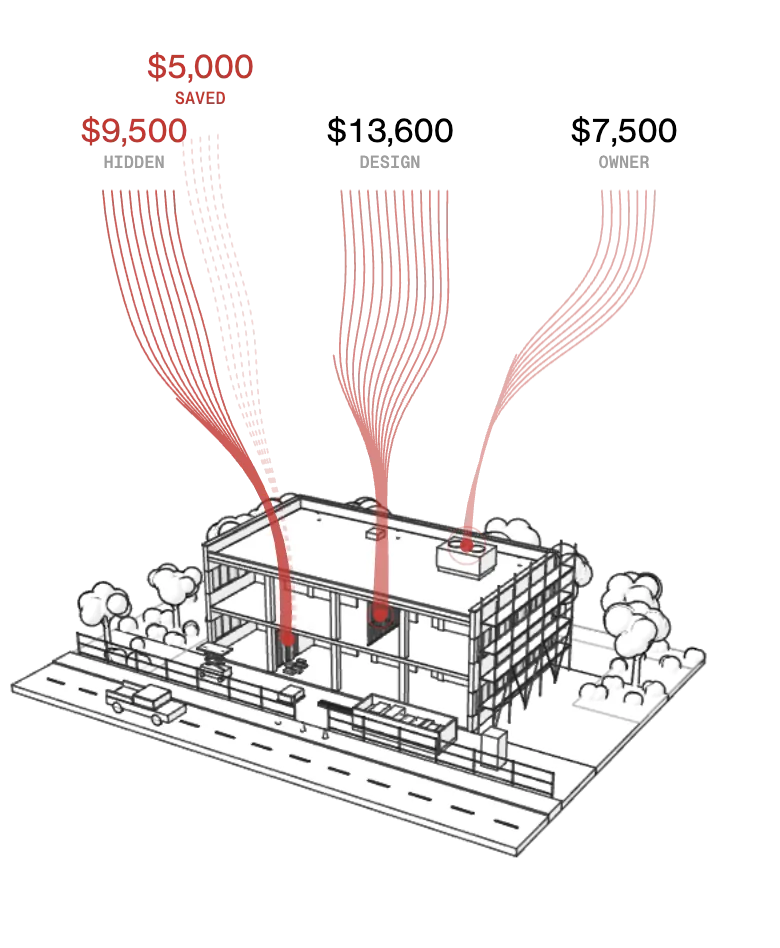
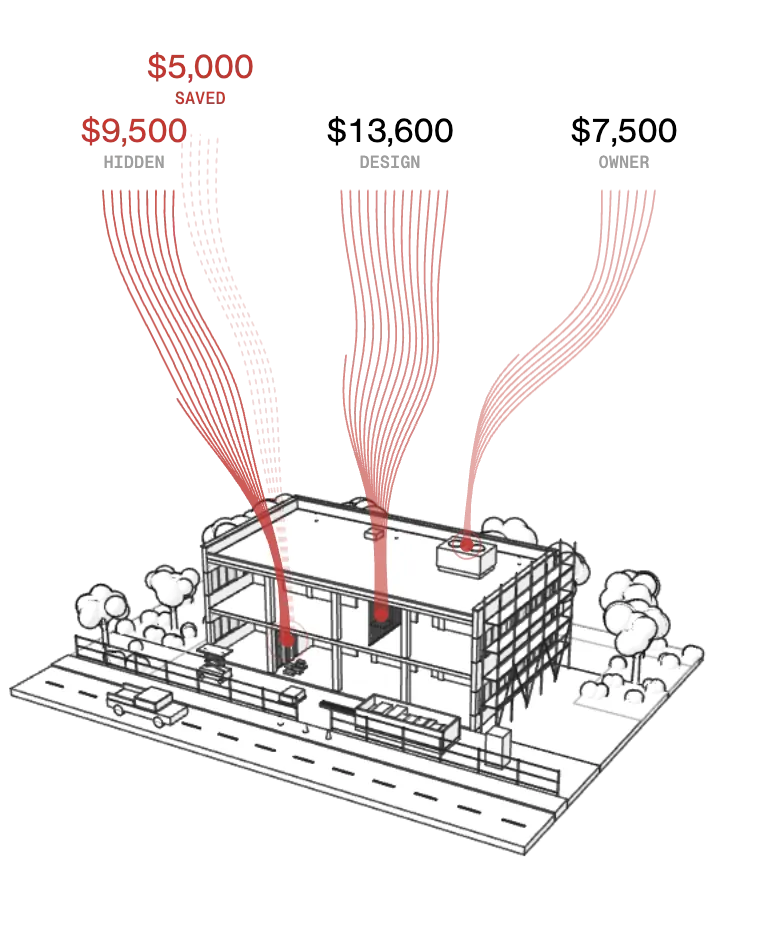
Make the fallback take the models apart gradually
The stills fallback swapped from an assembled to a taken-apart image halfway through the scroll, so
the wall and the scanner seemed to jump apart. Each is now 12 frames from assembled to taken apart,
captured in the page's ?capture mode with the explode amount and camera set exactly (turning onto
the diagonal the live view settles on). Scroll eases through them with the live view's own range
and easing, each frame fading in over the one before.

Checked in Safari 26.3.1 (where WebGL fails): the wall and scanner come apart step by step with
scroll. Chromium still draws the live 3D, with no dropped frames while scrolling.

Changed region(s): [[0.0, 0.153, 0.9231, 0.9177]]

diff --git a/src/landing/WallViewer.tsx b/src/landing/WallViewer.tsx
@@ -3,7 +3,7 @@ import * as T from 'three';
 import {GLTFLoader} from 'three/addons/loaders/GLTFLoader.js';
 import {DRACOLoader} from 'three/addons/loaders/DRACOLoader.js';
 import {debugMode,diag,diagCanvas,diagFrame,diagView} from './diag';
-import {ExplodedStill,guardContext} from './stills';
+import {ExplodedFlipbook,guardContext} from './stills';
 import {RoomEnvironment} from 'three/addons/environments/RoomEnvironment.js';
 import {mergeGeometries} from 'three/addons/utils/BufferGeometryUtils.js';
 import {hardwareParts} from './hardware-parts';
@@ -92,6 +92,7 @@ function sheetLines(b:T.Box3){
 export type ViewerText={aria:string;loading:string;unavailable:string;failed:string;cursor:string;labels:Record<string,string>};
 // 'still': WebGL or the model failed, so the view shows images rendered from it instead (see stills.tsx).
 type Status={kind:'loading'|'still'|'ready';pct?:number};
+const captureMode=typeof location!=='undefined'&&new URLSearchParams(location.search).has('capture');
 
 /** A model on a slow turntable; press and drag, or scroll, to separate it into an exploded axonometric. */
 export default function ExplodedViewer({model:which='wall',reality,focus,scroll,onExploded,text}:{model?:'wall'|'kit';reality:number;focus:WallSystem|null;scroll:RefObject<number>;onExploded?:(exploded:boolean)=>void;text?:ViewerText}){
@@ -235,6 +236,11 @@ export default function ExplodedViewer({model:which='wall',reality,focus,scroll,
    if(!dragging&&!reduced){velocity*=Math.exp(-dt*3);const open=smooth(explode/.6);azimuth+=velocity+dt*config.view.spin*(1-Math.min(1,Math.abs(velocity)*20))*(1-open);
     // Once separated, settle onto the nearest 45° diagonal so the layers read as an exploded axonometric.
     if(open>0&&Math.abs(velocity)<.002){const diagonal=Math.round((azimuth-Math.PI/4)/(Math.PI/2))*(Math.PI/2)+Math.PI/4;azimuth+=(diagonal-azimuth)*(1-Math.exp(-dt*2.2*open));elevation+=(T.MathUtils.degToRad(config.view.openElevation)-elevation)*(1-Math.exp(-dt*1.6*open))}}
+   // Capturing the fallback stills (?capture): an exact explode amount from the script, with the camera turning onto the
+   // same diagonal and height the live view settles on, so every frame of the sequence lines up.
+   const forced=captureMode?(window as unknown as {__explode?:Record<string,number>}).__explode?.[which]:undefined;
+   if(forced!==undefined){explode=forced;const open=smooth(explode/.6),a0=config.view.azimuth,diagonal=Math.round((a0-Math.PI/4)/(Math.PI/2))*(Math.PI/2)+Math.PI/4;
+    azimuth=T.MathUtils.lerp(a0,diagonal,open);elevation=T.MathUtils.lerp(T.MathUtils.degToRad(config.view.elevation),T.MathUtils.degToRad(config.view.openElevation),open);velocity=0}
    setLayers(explode);updateGuides();
    // As the board flies forward its solid edge thins out, leaving a line drawing over the exploded systems.
    if(sheetFade){const open=smooth(explode/.7);sheetFade.fadeMax.value=T.MathUtils.lerp(.94,.16,open);sheetFade.fadeMin.value=T.MathUtils.lerp(.035,.02,open)}const diag=diagrams[r];guideMaterial.opacity=(diag?diag.guideOpacity:.3)*smooth(explode/.25);
@@ -254,7 +260,7 @@ export default function ExplodedViewer({model:which='wall',reality,focus,scroll,
    scene.traverse(o=>{if(o instanceof T.Mesh||o instanceof T.LineSegments)o.geometry.dispose()});for(const {mat} of reals.values())mat.dispose();for(const {mat} of diagramMats.values())mat.dispose();for(const m of edgeMats.values())m.dispose();(ground.material as T.Material).dispose();guideMaterial.dispose();sheetLineMat.dispose();textures.noise.dispose();textures.spangle.dispose();
    draco.dispose();environment.dispose();renderer.dispose();canvas.remove();labelHost.replaceChildren();spans.clear()};
  },[scroll]);
- if(status.kind==='still')return <div className="wall-viewer is-still" role="img" aria-label={text?.aria??config.aria}><ExplodedStill name={which} scroll={scroll} range={config.scroll} onExploded={onExploded}/></div>;
+ if(status.kind==='still')return <div className="wall-viewer is-still" role="img" aria-label={text?.aria??config.aria}><ExplodedFlipbook name={which} scroll={scroll} range={config.scroll} onExploded={onExploded}/></div>;
  const message=status.kind==='loading'?`${text?.loading??'LOADING'}${status.pct===undefined?'':` ${status.pct}%`}`:'';
  return <div className="wall-viewer" data-cursor={text?.cursor??'DRAG TO EXPLODE'}><div ref={host} className="wall-canvas"/><div ref={labelsRef} className="wall-labels" aria-hidden="true"/>{message&&<p className="wall-status" role="status">{message}</p>}</div>
 }

diff --git a/src/landing/stills.tsx b/src/landing/stills.tsx
@@ -22,15 +22,24 @@ export function StillPicture({name,className,style}:{name:string;className?:stri
  return <picture className={className} style={style}><source media="(max-width: 767px)" srcSet={src(name,true)}/><img src={src(name,false)} alt="" decoding="async"/></picture>;
 }
 
-/** The assembled and taken-apart stills of a pinned view, swapped by the same scroll progress that explodes the model.
- * The swap is a short crossfade around the middle, so the two drawings are seen over each other only briefly. */
-export function ExplodedStill({name,scroll,range,onExploded}:{name:string;scroll:RefObject<number>;range:[number,number];onExploded?:(open:boolean)=>void}){
- const closed=useRef<HTMLElement>(null),open=useRef<HTMLElement>(null),report=useRef(onExploded);report.current=onExploded;
- useEffect(()=>{let frame=0,last=-1;
-  const update=()=>{frame=0;const t=smooth(((scroll.current??0)-range[0])/range[1]),k=smooth((t-.4)/.2);
-   if(open.current)open.current.style.opacity=k.toFixed(3);if(closed.current)closed.current.style.opacity=(1-k).toFixed(3);
-   const exploded=t>.5;if(exploded!==(last>.5)||last<0)report.current?.(exploded);last=t};
-  const schedule=()=>{if(!frame)frame=requestAnimationFrame(update)};update();addEventListener('scroll',schedule,{passive:true});
+/** Frames per pinned view, from assembled (00) to taken apart (11); rendered by scripts/capture-stills.mjs. */
+export const FRAMES=12;
+
+/** A pinned view's stills as a flipbook: scroll eases through the frames the way the live model separates (same scroll
+ * range, same easing), fading each frame in over the one before, so the model still comes apart slowly. */
+export function ExplodedFlipbook({name,scroll,range,onExploded}:{name:string;scroll:RefObject<number>;range:[number,number];onExploded?:(open:boolean)=>void}){
+ const frames=useRef<(HTMLElement|null)[]>([]),report=useRef(onExploded);report.current=onExploded;
+ useEffect(()=>{let frame=0,shown=-1,last=performance.now(),reported:boolean|null=null;
+  const reduced=matchMedia('(prefers-reduced-motion: reduce)').matches;
+  const paint=(e:number)=>{const f=e*(FRAMES-1),i=Math.min(FRAMES-2,Math.floor(f)),k=f-i;
+   // The earlier frame stays solid and the next fades in over it: a plain crossfade of two cut-out drawings looks faded.
+   frames.current.forEach((el,j)=>{if(el)el.style.opacity=j===i?'1':j===i+1?k.toFixed(3):'0'});
+   const open=e>.5;if(open!==reported){reported=open;report.current?.(open)}};
+  const step=(now:number)=>{frame=0;const target=smooth(((scroll.current??0)-range[0])/range[1]),dt=Math.min(.1,(now-last)/1000);last=now;
+   shown=shown<0||reduced?target:shown+(target-shown)*(1-Math.exp(-dt*3.2));if(Math.abs(target-shown)<.0005)shown=target;
+   paint(shown);if(shown!==target)frame=requestAnimationFrame(step)};
+  const schedule=()=>{if(!frame){last=performance.now();frame=requestAnimationFrame(step)}};
+  schedule();addEventListener('scroll',schedule,{passive:true});
   return()=>{cancelAnimationFrame(frame);removeEventListener('scroll',schedule)}},[scroll,range]);
- return <div className="viewer-still" aria-hidden="true"><span ref={closed}><StillPicture name={`${name}-closed`}/></span><span ref={open} style={{opacity:0}}><StillPicture name={`${name}-open`}/></span></div>;
+ return <div className="viewer-still" aria-hidden="true">{Array.from({length:FRAMES},(_,j)=><span key={j} ref={el=>{frames.current[j]=el}} style={{opacity:j===0?1:0}}><StillPicture name={`${name}-${String(j).padStart(2,'0')}`}/></span>)}</div>;
 }

diff --git a/README.md b/README.md
@@ -12,8 +12,9 @@ below are React + three.js (`src/home.tsx`, components in `src/landing`). The Ab
 - 3D models, textures and the Draco decoder in `public/models`, `public/hardware`, `public/texture` and `public/draco`
   come from the first site's repository.
 - Logo: `public/logo-mark.svg` and `src/landing/logo-path.ts` (the same path is inlined in both HTML headers).
-- Stills: when a browser can't keep a WebGL context, the 3D views show `public/stills/*.webp` instead (assembled and
-  taken apart, desktop and `-m` phone framing). Re-render them after changing a model or its view:
+- Stills: when a browser can't keep a WebGL context, the 3D views show `public/stills/*.webp` instead: the wall and
+  the scanner as 12 frames each from assembled to taken apart, played by scroll, and the numbers view as one image
+  (desktop, and `-m` for phone framing). Re-render them after changing a model or its view:
   `npm run build && npx vite preview --port 5201 &`, then `node scripts/capture-stills.mjs` (PNG into `assets/stills`),
   then convert to WebP (quality 82, alpha kept) into `public/stills`.
 - Diagnostics: open any page with `?debug` for an overlay of errors, footage events and each 3D view's WebGL state
